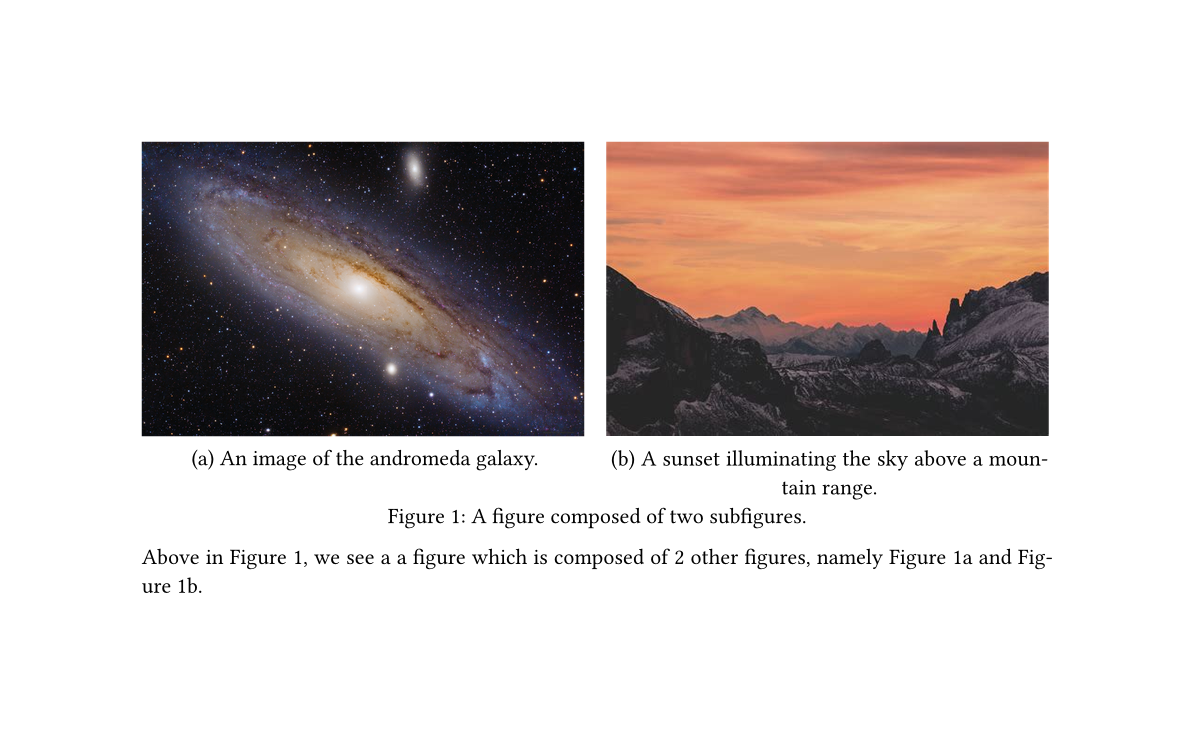
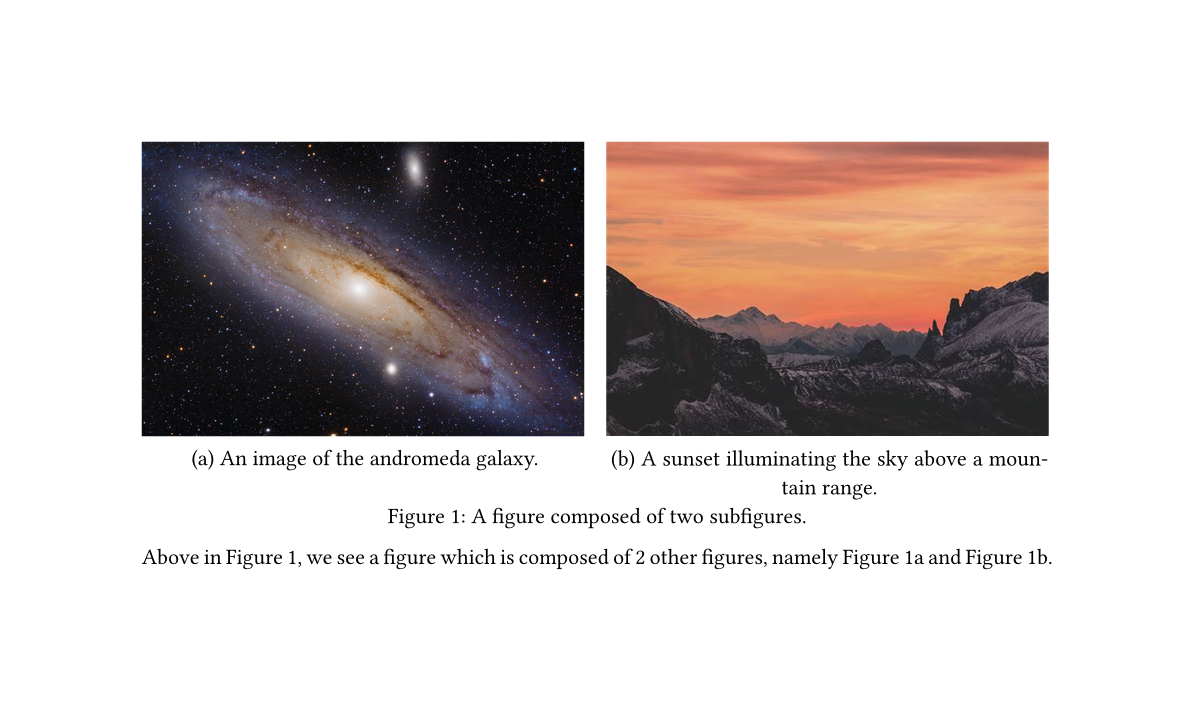
Updated README.md

Changed region(s): [[0.0932, 0.187, 0.9009, 0.8102], [0.1243, 0.4674, 0.1864, 0.5297]]

diff --git a/README.md b/README.md
@@ -1,5 +1,5 @@
 # subpar
-**NOTE: This package is not yet released and undocumented as I hash out the exact API and work out the kinks.**
+**NOTE: This package is not yet released and undocumented as I hash out the exact API and work out the kinks. You can help by trying it out locally and reporting issues as you encounter them.**
 
 Subpar is a [Typst] package allowing you to create easily referencable subfigures.
 
@@ -22,9 +22,23 @@ Subpar is a [Typst] package allowing you to create easily referencable subfigure
   caption: [A figure composed of two subfigures.],
 ) <full>
 
-Above in @full, we see a a figure which is composed of 2 other figures, namely @a and @b.
+Above in @full, we see a figure which is composed of 2 other figures, namely @a and @b.
 ```
 ![ex]
+
+## Known Issues
+- Relative numbering is incorrect for super-figures, see #1
+- Supplement is always "Figure", regardless of `text.lang`, see: #2
+- Figure show rule cannot be easily reconfigured
+
+## TODO
+The following tasks remain before the first version of subpar is released:
+- [ ] documentation
+- [ ] allow more control over figure layout
+- [ ] allow show subfigures in outline with indentation
+- [ ] add convenient warppers for common types of super figures
+- [ ] add input validation
+- [ ] add a more comprehensive test suite
 
 [ex]: /examples/example.png
 

diff --git a/CHANGELOG.md b/CHANGELOG.md
@@ -8,3 +8,4 @@
 ---
 
 # [v0.0.1](https://github.com/tingerrr/subpar/releases/tags/v0.0.1)
+Initial Release
